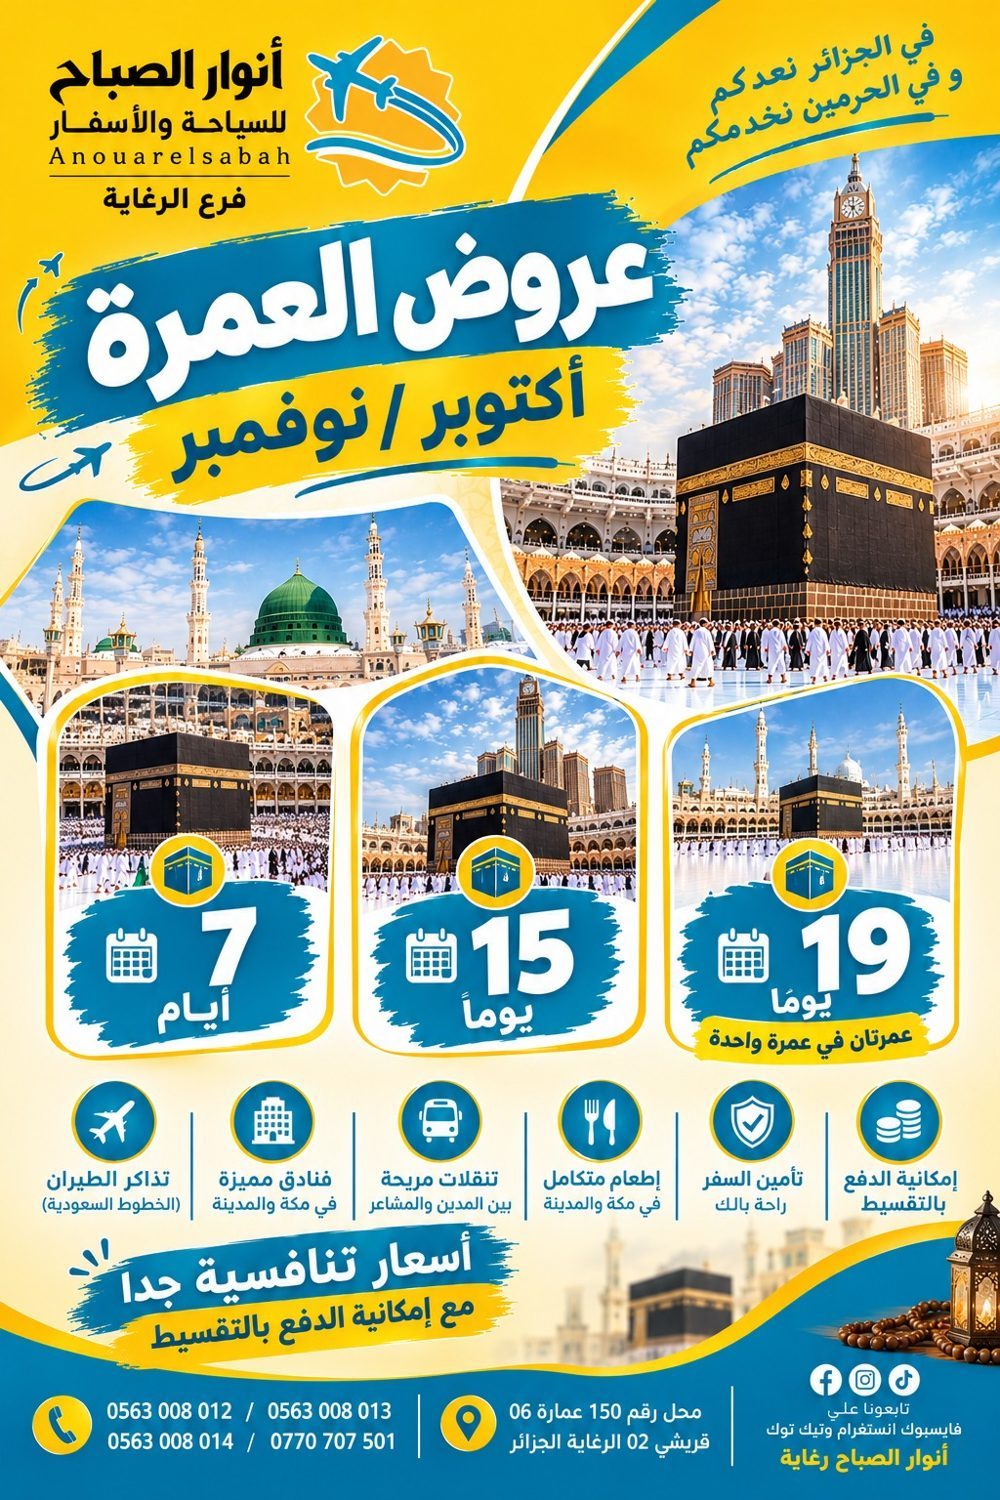
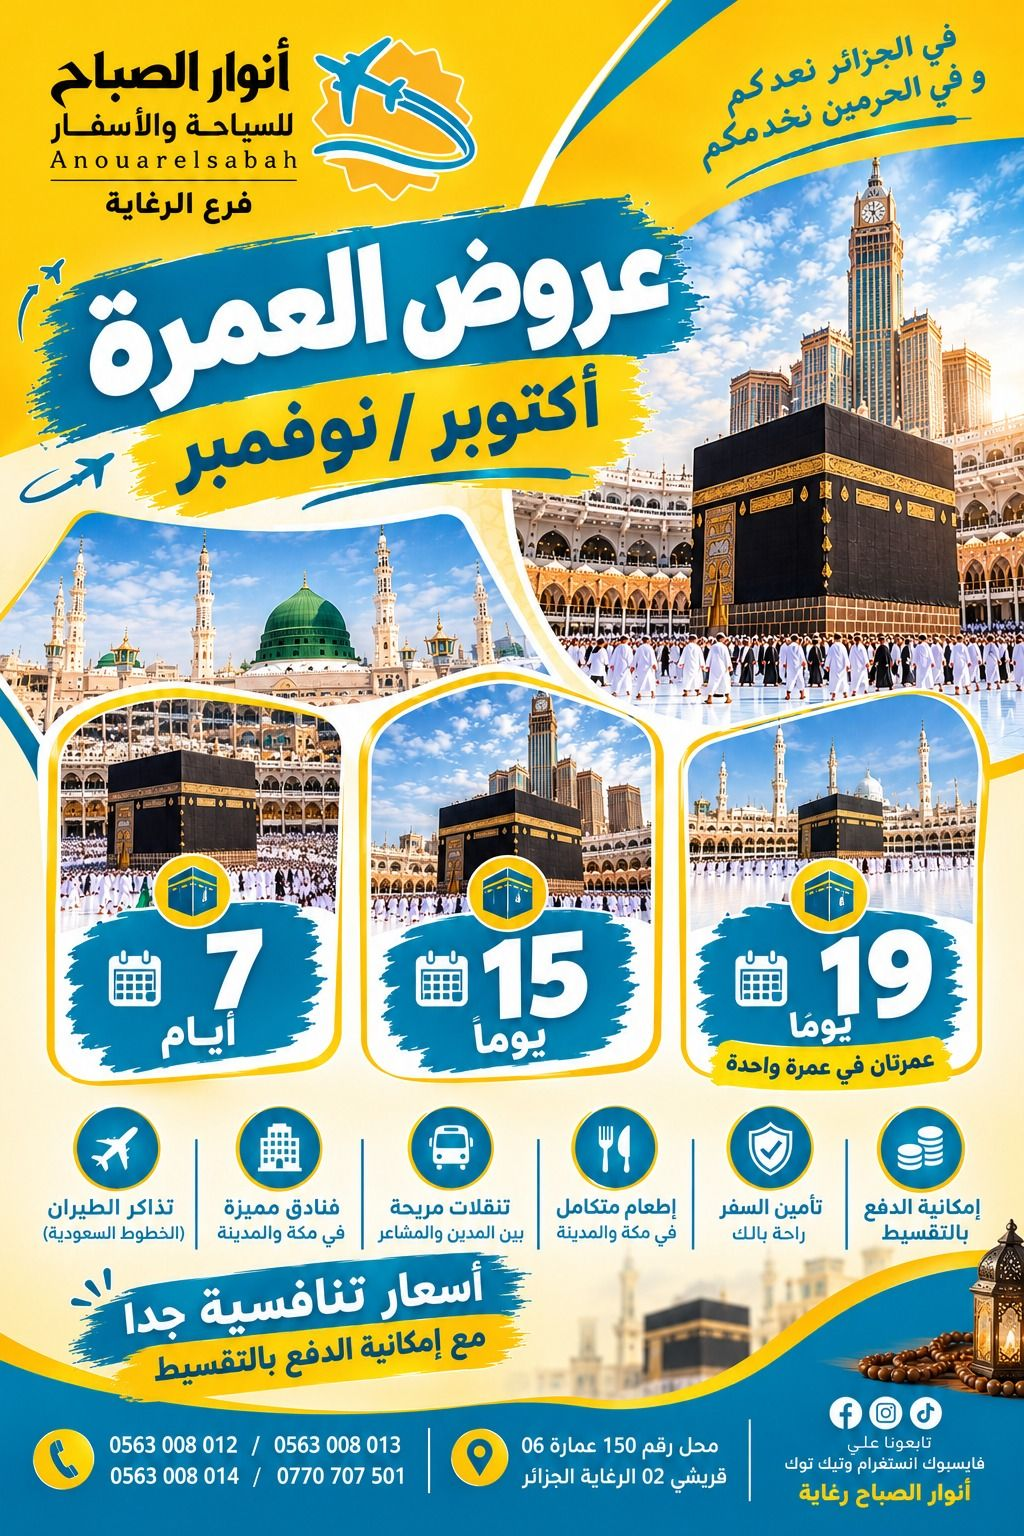
Update offers to the 3 current posters
Keep only the current offers: 7-day October umrah, October–November
(Rayan Al Jiwar / Infinity hotels) and the 7/15/19-day programs poster.
Remove the two outdated 19-day offers and their posters, refresh the
poster images, and adjust the children-pricing note and meta description.

Claude-Session: https://claude.ai/code/session_01XGHumojvwmiYAACVuz7wpj

Changed region(s): [[0.775, 0.9507, 0.806, 0.9813]]

diff --git a/anouar-umrah/src/data/offers.js b/anouar-umrah/src/data/offers.js
@@ -36,51 +36,6 @@ export const offers = [
     ],
   },
   {
-    id: '19-oct19-rayan',
-    badge: '19 يوماً',
-    title: 'عمرة 19 يوم – انطلاق 19 أكتوبر',
-    subtitle: 'في فندق ريان الجوار',
-    period: 'أكتوبر',
-    departures: ['19 أكتوبر'],
-    poster: './images/offer-19-rayan-oct19.jpg',
-    highlights: ['برنامج متكامل لأداء المناسك', 'خدمة متميزة ومرافقة دائمة', 'راحة وأمان في كل خطوة'],
-    hotels: [
-      {
-        id: 'rayan',
-        name: 'فندق ريان الجوار – مكة المكرمة',
-        rooms: { quint: 193000, quad: 199000, triple: 215000, double: 242000 },
-        meals: 42000,
-      },
-    ],
-  },
-  {
-    id: '19-two-umrah',
-    badge: '19 يوماً',
-    title: 'عمرة 19 يوم – عمرتان في عمرة واحدة',
-    subtitle: 'الدخول من جدة • 3 رحلات في الأسبوع',
-    period: 'أكتوبر / نوفمبر',
-    departures: ['3 رحلات أسبوعياً'],
-    poster: './images/offer-19-two-hotels.jpg',
-    childrenPricing: true,
-    highlights: ['الخطوط السعودية رحلات مباشرة', 'تنقلات مريحة بين المدينتين', 'تأمين السفر'],
-    hotels: [
-      {
-        id: 'rayan',
-        name: 'فندق ريان الجوار – أقوى عرض اقتصادي',
-        // ملاحظة: عناوين الغرف في الملصق مكررة، اعتمدنا ترتيب ملصق "انطلاق 19 أكتوبر" — يُرجى التأكد
-        rooms: { quint: 193000, quad: 199000, triple: 215000, double: 242000 },
-        meals: 45000,
-      },
-      {
-        id: 'infinity',
-        name: 'فندق إنفينيتي 5 نجوم',
-        stars: 5,
-        rooms: { quint: 225000, quad: 235000, triple: 260000, double: 309000 },
-        meals: 52000,
-      },
-    ],
-  },
-  {
     id: 'oct-nov',
     badge: 'أكتوبر – نوفمبر',
     title: 'عمرة أكتوبر – نوفمبر',
@@ -105,14 +60,20 @@ export const offers = [
     ],
   },
   {
-    id: '15-days',
-    badge: '15 يوماً',
-    title: 'عمرة 15 يوماً',
-    subtitle: 'أكتوبر / نوفمبر – أسعار تنافسية جداً',
+    id: 'programs-7-15-19',
+    badge: '7 • 15 • 19 يوماً',
+    title: 'عروض العمرة 7، 15 و19 يوماً',
+    subtitle: 'أكتوبر / نوفمبر – أسعار تنافسية جداً مع إمكانية الدفع بالتقسيط',
     period: 'أكتوبر / نوفمبر',
     departures: ['حسب الرزنامة'],
     poster: './images/offers-overview.jpg',
-    highlights: ['فنادق مميزة في مكة والمدينة', 'إطعام متكامل', 'إمكانية الدفع بالتقسيط'],
+    highlights: [
+      '7 أيام، 15 يوماً أو 19 يوماً (عمرتان في عمرة واحدة)',
+      'تذاكر الطيران مع الخطوط السعودية',
+      'فنادق مميزة وإطعام متكامل في مكة والمدينة',
+      'تنقلات مريحة بين المدينتين والمشاعر',
+      'تأمين السفر وإمكانية الدفع بالتقسيط',
+    ],
     hotels: [{ id: 'tbd', name: 'السعر عند الاتصال', rooms: {} }],
   },
 ];

diff --git a/anouar-umrah/index.html b/anouar-umrah/index.html
@@ -4,7 +4,7 @@
     <meta charset="UTF-8" />
     <meta name="viewport" content="width=device-width, initial-scale=1.0" />
     <meta name="theme-color" content="#0B4F9C" />
-    <meta name="description" content="احجز عمرتك مع أنوار الصباح للسياحة والأسفار – فرع الرغاية. عروض 7 أيام و19 يوماً، رحلات مباشرة مع الخطوط السعودية وإمكانية الدفع بالتقسيط." />
+    <meta name="description" content="احجز عمرتك مع أنوار الصباح للسياحة والأسفار – فرع الرغاية. عروض 7 أيام، 15 يوماً و19 يوماً، رحلات مباشرة مع الخطوط السعودية وإمكانية الدفع بالتقسيط." />
     <link rel="icon" type="image/png" href="./images/logo.png" />
     <link rel="preconnect" href="https://fonts.googleapis.com" />
     <link rel="preconnect" href="https://fonts.gstatic.com" crossorigin />

diff --git a/anouar-umrah/src/components/Offers.jsx b/anouar-umrah/src/components/Offers.jsx
@@ -86,7 +86,7 @@ export default function Offers({ onChoose }) {
             <div><small>من 2 إلى 12 سنة (بدون سرير)</small><b>150.000 دج</b></div>
             <div><small>الطفل مع سرير</small><b>خصم 15.000 دج</b></div>
           </div>
-          <p>تُطبق على عروض 19 يوماً وعروض أكتوبر – نوفمبر. لباقي العروض يرجى الاستفسار.</p>
+          <p>تُطبق على عرض أكتوبر – نوفمبر (فندق ريان الجوار وفندق إنفينيتي). لباقي العروض يرجى الاستفسار.</p>
         </div>
       </div>
 

diff --git a/anouar-umrah/README.md b/anouar-umrah/README.md
@@ -64,8 +64,3 @@ npm run build    # نسخة النشر في مجلد dist/
 - من محرّر Apps Script اختر الدالة `testInsert` واضغط **Run**: يجب أن يظهر سطر «TEST» في الجدول.
 - إذا استعملت جدولاً آخر، غيّر `SPREADSHEET_ID` في أعلى الكود.
 عند تعديل الكود لاحقاً: **Deploy ← Manage deployments ← Edit ← New version** ليبقى نفس الرابط.
-
-## ملاحظة على الأسعار
-
-في ملصق «عمرة 19 يوم – عمرتان في عمرة واحدة»، عناوين غرف فندق ريان الجوار مكررة، فاعتمدنا ترتيب ملصق «انطلاق 19 أكتوبر»
-(خماسية 193.000 • رباعية 199.000 • ثلاثية 215.000 • ثنائية 242.000). يُرجى التأكد مع الوكالة.
